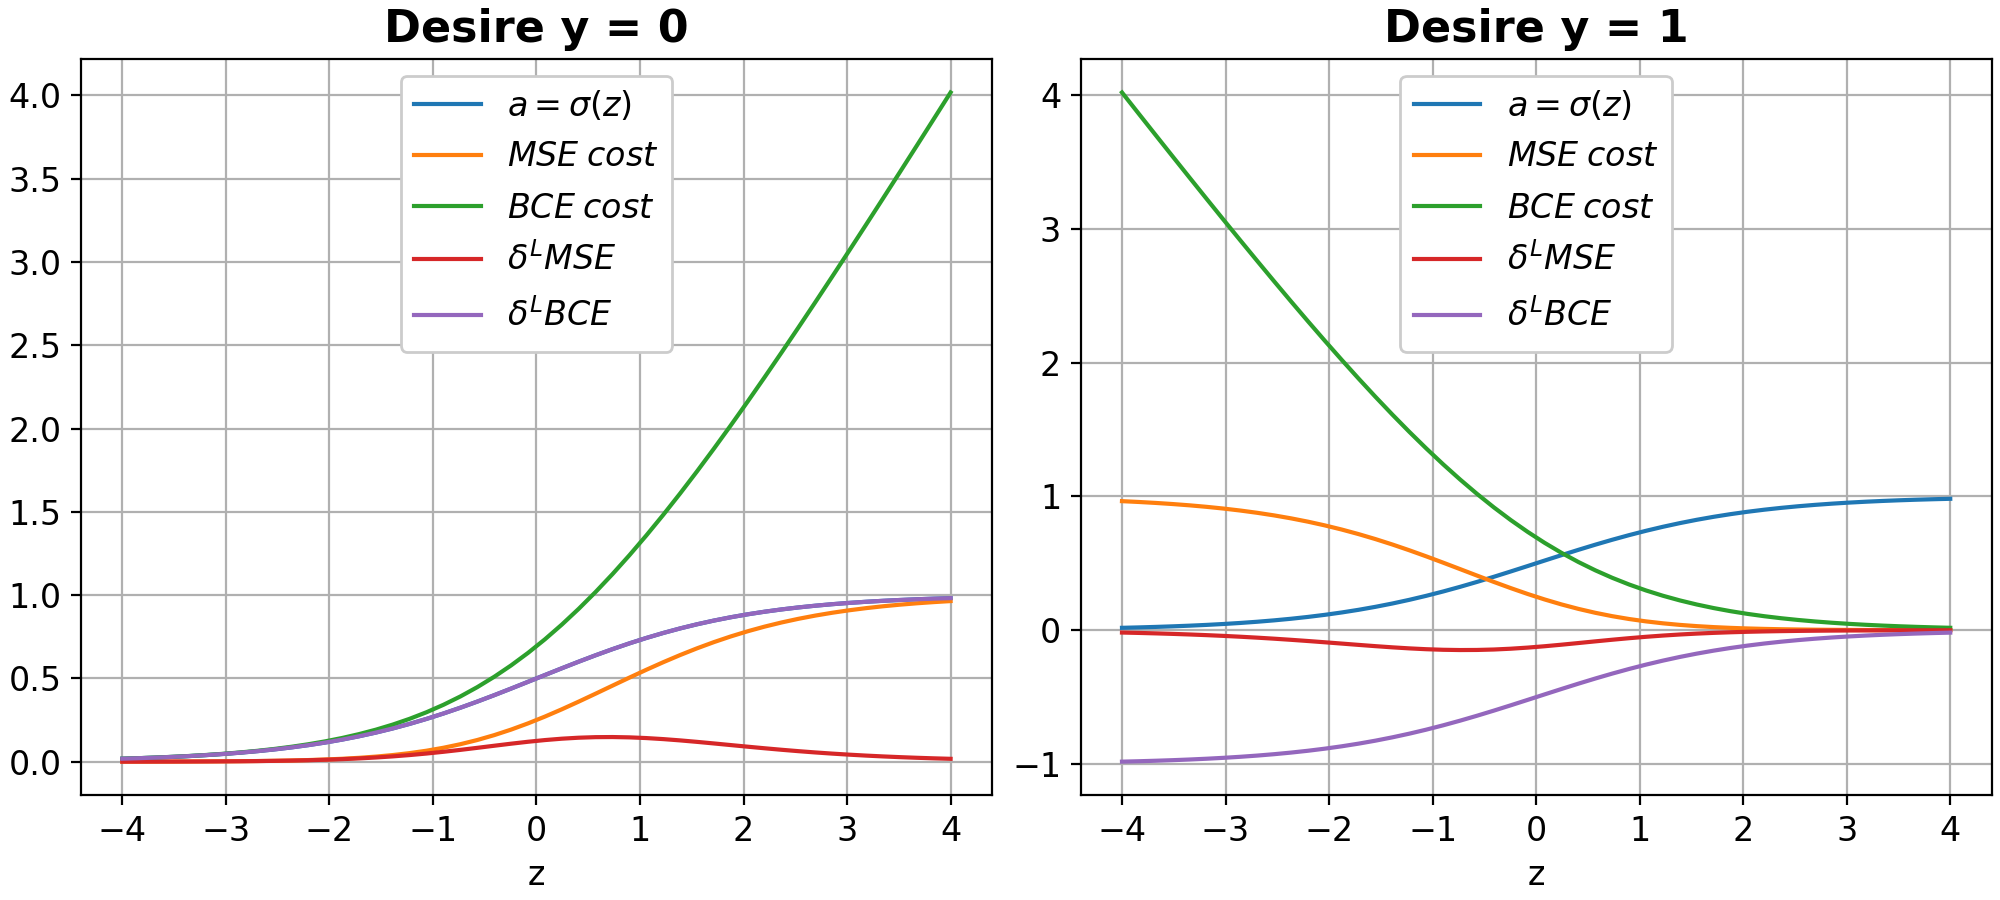
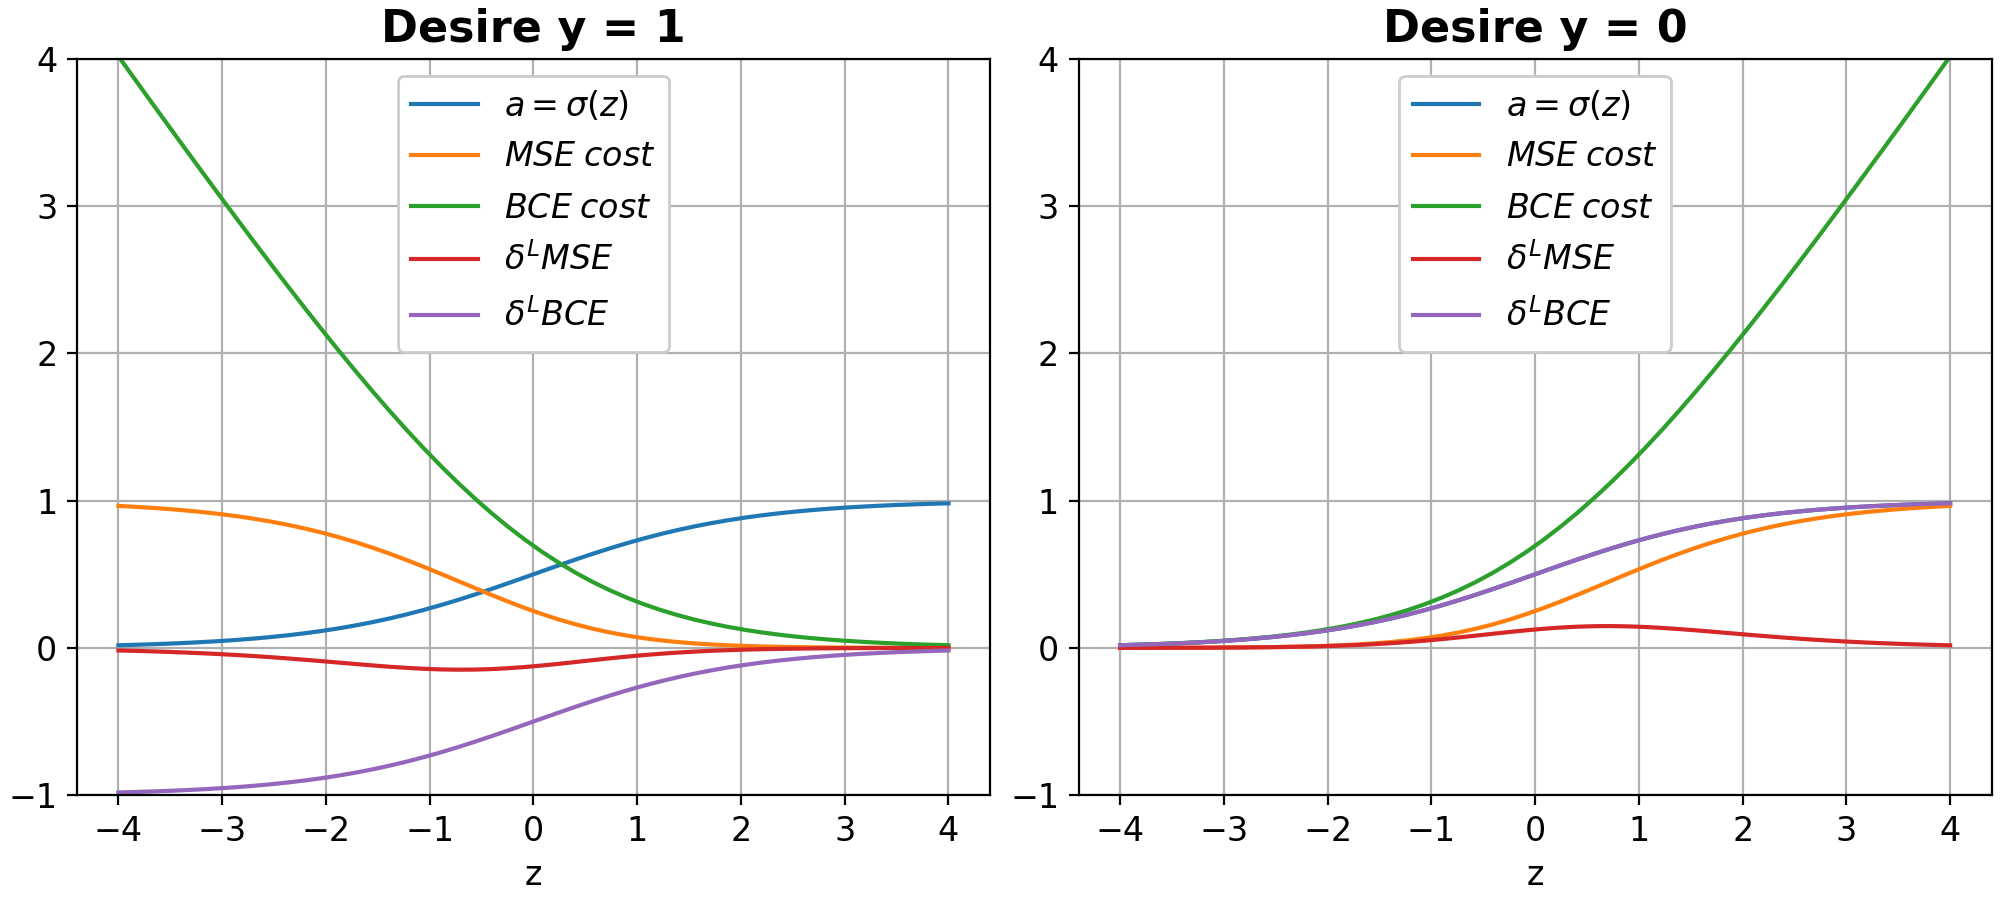
learnig algorithms

diff --git a/PythonScripts/Examples/learning_algorithms.py b/PythonScripts/Examples/learning_algorithms.py
@@ -1,0 +1,118 @@
+# -*- coding: utf-8 -*-
+"""
+Created on Mon Jan 15 14:06:42 2024
+
+@author: Genio
+"""
+import matplotlib.pyplot as plt
+import numpy as np
+
+plt.rc('axes' ,grid=True)
+plt.rc('axes', axisbelow=True)
+px2inch = 1/plt.rcParams['figure.dpi']
+
+def rand_grad(t=[0,90],m=[1,2],n=1):
+    
+    t   = np.array(t)*np.pi/180
+    m   = np.array(m)
+
+    theta = t[0] + (t[1]-t[0])*np.random.rand(n,1)
+    mag   = m[0] + (m[1]-m[0])*np.random.rand(n,1)
+
+    grad_v = mag*np.hstack([np.cos(theta),np.sin(theta)])
+    
+    return grad_v
+
+
+def plot_vec(pos,vec,ax,color='b',txt='',k=0.5):
+    
+    bbox=dict(boxstyle='round,pad=-0.05', fc='w', ec='none')
+    
+    ax.quiver(pos[0],pos[1],vec[0],vec[1],angles='xy',scale_units='xy',scale=1,color=color)
+    
+    if txt != '':
+        ax.text(pos[0]+vec[0]*k, pos[1]+vec[1]*k, txt, 
+                                                      backgroundcolor='w',
+                                                      fontsize=10,
+                                                      fontweight ='bold',
+                                                      ha='center',
+                                                      va='center',
+                                                      bbox=bbox)
+    
+    
+def plot_multi_vec(vec,ax,color='b',txt=''):
+    
+    pos  = np.vstack([np.zeros((1,2)),np.cumsum(vec,axis=0)])
+    x, y = pos[:,0][:-1], pos[:,1][0:-1]
+    u, v = vec[:,0]     , vec[:,1]
+    ax.quiver(x, y, u, v, angles='xy',scale_units='xy',scale=1,color=color)
+    
+    klim = 0.1
+    ax.set_xlim( np.min(x)-klim, np.max(x+u)+klim )
+    ax.set_ylim( np.min(y)-klim, np.max(y+v)+klim )
+    ax.set_aspect(1)
+    
+    return x,y,u,v
+
+def momentum_gradient_descent(ax,fi=0.25,mu=0.5,w = np.array([0,0])):
+  
+    # mu = gradient constant
+    # fi = momentum constant
+    
+    v   = np.array([0,0])
+    V,W = v,w
+    
+    for i,grad in enumerate(grad_v): 
+        
+        v = fi*v + mu*grad
+        w = w    + v
+    
+        V = np.vstack([V,v])
+        W = np.vstack([W,w])
+        
+        # plots
+        plot_vec(W[i]+mu*grad, fi*V[i], ax, color='g')
+        plot_vec(W[i]        , mu*grad, ax, color='b')
+        plot_vec(W[i]        , v      , ax, color='r',txt=f'w{i+1}')
+        
+     
+    ax.set_title(f'Momentum Gradient Descent \n $\eta:${mu}  $\gamma:${fi}  $w_0:${W[0]}')
+    
+    return W,V
+
+
+nplots  = 2
+height  = 500
+fig, ax = plt.subplots(1,nplots,figsize=(nplots*height*px2inch,height*px2inch),constrained_layout=True)
+
+
+grad_v = rand_grad(n=5,t=[5,85])
+grad_v = np.array([[2,0],
+                   [1,2],
+                   [0,2],
+                   [-1,2]])
+
+w0     = np.array([2,3])
+
+# subpltot 1
+#############
+W0,V0 = momentum_gradient_descent(ax[0],fi=0,mu=1,w=w0)
+
+# subpltot 2
+#############
+W1,V1 = momentum_gradient_descent(ax[1],fi=0.25,mu=0.5,w=w0)
+
+
+klim = 0.1
+W    = np.vstack([W0,W1])
+ax[0].set_xlim( np.min(W[:,0])-klim, np.max(W[:,0])+klim )
+ax[0].set_ylim( np.min(W[:,1])-klim, np.max(W[:,1])+klim )
+ax[1].set_xlim( np.min(W[:,0])-klim, np.max(W[:,0])+klim )
+ax[1].set_ylim( np.min(W[:,1])-klim, np.max(W[:,1])+klim )
+
+    
+plt.savefig('imgs/learning_algorithms.png',dpi=150)
+plt.show()
+
+
+

diff --git a/PythonScripts/Examples/DeltaErrorMseBce.py b/PythonScripts/Examples/DeltaErrorMseBce.py
@@ -52,23 +52,25 @@ fig, ax = plt.subplots(1,2, constrained_layout=True,figsize=(1000*px2inch , 450*
 z     = np.linspace(-4,4)
 a     = sigmoid(z)
 
-y     = 0
-mse   = quadratic_cost(sigmoid(z),y)
-bce   = cross_entropy( sigmoid(z),y)
-d_mse = delta_mse(z,a,y)
-d_bce = delta_bce(z,a,y)
-ax[y].plot(z,sigmoid(z),label='$a=\sigma(z)$');ax[y].plot(z,mse,label='$MSE _ cost$');ax[y].plot(z,bce,label='$BCE _ cost$')
-ax[y].plot(z,d_mse,label='$\delta^L MSE $'); ax[y].plot(z,d_bce,label='$\delta^L _ BCE$');
-ax[y].set_title(f'Desire y = {y}');ax[y].set_xlabel('z');ax[y].legend();
-
 y     = 1
 mse   = quadratic_cost(sigmoid(z),y)
 bce   = cross_entropy( sigmoid(z),y)
 d_mse = delta_mse(z,a,y)
 d_bce = delta_bce(z,a,y)
-ax[y].plot(z,sigmoid(z),label='$a=\sigma(z)$');ax[y].plot(z,mse,label='$MSE _ cost$');ax[y].plot(z,bce,label='$BCE _ cost$')
-ax[y].plot(z,d_mse,label='$\delta^L MSE $'); ax[y].plot(z,d_bce,label='$\delta^L _ BCE$');
-ax[y].set_title(f'Desire y = {y}');ax[y].set_xlabel('z');ax[y].legend();
+ax[0].plot(z,sigmoid(z),label='$a=\sigma(z)$');ax[0].plot(z,mse,label='$MSE _ cost$');ax[0].plot(z,bce,label='$BCE _ cost$')
+ax[0].plot(z,d_mse,label='$\delta^L MSE $');   ax[0].plot(z,d_bce,label='$\delta^L _ BCE$');
+ax[0].set_title(f'Desire y = {y}');            ax[0].set_xlabel('z');ax[0].legend();
+ax[0].set_ylim(-1,4)
+
+y     = 0
+mse   = quadratic_cost(sigmoid(z),y)
+bce   = cross_entropy( sigmoid(z),y)
+d_mse = delta_mse(z,a,y)
+d_bce = delta_bce(z,a,y)
+ax[1].plot(z,sigmoid(z),label='$a=\sigma(z)$'); ax[1].plot(z,mse,label='$MSE _ cost$');ax[1].plot(z,bce,label='$BCE _ cost$')
+ax[1].plot(z,d_mse,label='$\delta^L MSE $');    ax[1].plot(z,d_bce,label='$\delta^L _ BCE$');
+ax[1].set_title(f'Desire y = {y}');             ax[1].set_xlabel('z');ax[1].legend();
+ax[1].set_ylim(-1,4)
 
 fig.savefig('imgs/DeltaError.png', dpi=200)
 

diff --git a/PythonScripts/Examples/load_net1.py b/PythonScripts/Examples/load_net1.py
@@ -21,8 +21,9 @@ net           = network2.load('net_save.json')
 # %%
   
 BCE_cost = lambda a,y: -y*np.log(a)-(1-y)*np.log(1-a)
+
+
 n        = np.random.randint(len(training_data))
-#n        = 29504
 x,y      = training_data[n]
 
 noise    = 0.0
@@ -30,6 +31,11 @@ x        = x+noise*np.random.randn(28*28,1)
 #x        = np.where(x<0.5,0,1)
 a        = net.feedforward(x)
 cost     = BCE_cost(a,y)
+
+predict_digit = np.argmax(a)
+true_digit    = np.argmax(y)
+    
+
 
 print('y',end='\n')
 print(y,end='\n\n')
@@ -40,16 +46,12 @@ print(a,end='\n\n')
 print('cost',end='\n')
 print(cost,end='\n\n')
 
-
-
 size    = 500
 nplots  = 3
 px2inch = 1/plt.rcParams['figure.dpi']
 fig, ax = plt.subplots(1,nplots,figsize=(size*nplots*px2inch,size*px2inch),constrained_layout=True)
 digits  = np.arange(10)
 
-predict_digit = np.argmax(a)
-true_digit    = np.argmax(y)
 
 legend_loc = 0
 bar_color  = 'tab:blue'
@@ -66,7 +68,7 @@ ax_left1 = ax[0].twinx()
 ax_left1.plot(digits,cost,plot_color,marker='o',mfc='tab:green',mec='k')
 ax[0].tick_params(axis='y', labelcolor=bar_color)
 ax_left1.tick_params(axis='y', labelcolor=plot_color)
-
+ax_left1.set_ylim(0,0.2)
 
 ax[1].bar(digits,a.flatten(),log=True,color=bar_color,label='Activations')
 ax[1].plot(np.nan,np.nan,plot_color,label='Cost',marker='o',mfc='tab:green',mec='k')
@@ -78,6 +80,7 @@ ax_left2 = ax[1].twinx()
 ax_left2.semilogy(digits,cost,plot_color,marker='o',mfc='tab:green',mec='k')
 ax[1].tick_params(axis='y', labelcolor=bar_color)
 ax_left2.tick_params(axis='y', labelcolor=plot_color)
+ax_left2.set_ylim(0,0.2)
 
 ax[2].imshow( x.reshape((28,28)) )
 ax[2].set_xticks([])

diff --git a/PythonScripts/Examples/Weight_Initialization.py b/PythonScripts/Examples/Weight_Initialization.py
@@ -112,10 +112,10 @@ def get_gauss_curve(u=0,s=1,ns=4):
 
     return x_pdf,y_pdf
 
-fig2, ax2 = plt.subplots(1,1,constrained_layout=True,figsize=((900*px2inch,600*px2inch)));
+fig2, ax2 = plt.subplots(1,1,constrained_layout=True,figsize=((800*px2inch,600*px2inch)));
 u = 0
-t = ['weights randn/sqrt(n) ',
-     'weights randn             ']
+t = ['weights randn/sqrt(n)\n',
+     'weights randn\n']
 
                                     #[1.22,np.sqrt(51)]
 for i,(s ,ns, ti) in enumerate( zip([2,81],[12,3],t) ):
@@ -128,6 +128,6 @@ ax2.legend(loc='upper right')
 ax2.set_xlabel('$z = \sum w_j x_j + b$')
 ax2.set_title('Gaussian Random WeightSum Z Distribution' )
 
-#fig2.savefig('imgs/weight_distribution.png', dpi=150)
+fig2.savefig('imgs/weight_distribution.png', dpi=150)
 
 plt.show()

diff --git a/PythonScripts/networkG2.py b/PythonScripts/networkG2.py
@@ -190,8 +190,7 @@ class Network(object):
                     #print("Early-stopping: No accuracy change in last epochs: {}".format(early_stopping_n))
                     return evaluation_cost, evaluation_accuracy, training_cost, training_accuracy
 
-        return evaluation_cost, evaluation_accuracy, \
-               training_cost, training_accuracy
+        return evaluation_cost, evaluation_accuracy, training_cost, training_accuracy
 
     def update_mini_batch(self, mini_batch, eta, lmbda, n):
         """Update the network's weights and biases by applying gradient

diff --git a/README.md b/README.md
@@ -161,6 +161,7 @@ $$
 $$
 
 <img src="PythonScripts/Examples/imgs/b_c_e.png"  width="100%">
+<img src="PythonScripts/Examples/imgs/b_c_e2.png"  width="100%">
 
 ## Softmax
 
@@ -280,6 +281,13 @@ weights = [np.random.randn(r,c)/np.sqrt(c) for r,c in zip(rows,cols)]
 ### Normalized
 <img src="PythonScripts/Examples/imgs/weights_randn_normalize.png"  width="100%">
 
+## Choose a neural network's hyper-parameters
+
+- Reduce the number of classes and the test data
+- Decreasing training cost $\eta$: 0.1, 1.0, 2.5, 5
+- Validation accuracy: $\lambda$, $m$, $Nº$ $HiddenNeurons$
+- Early stopping to determine the number of training epochs: (Compute the classification accuracy on the validation data at the end of each epoch). Terminate training if the best classification accuracy doesn't improve for quite some nº of epochs
+
 ## Recognize handwritten digits from  MNIST dataset
 
 ### Parts of the data set
@@ -337,6 +345,14 @@ a    = net.feedforward(x)
 <img src="PythonScripts/Examples/imgs_output_net/img1.png"  width="100%">
 <img src="PythonScripts/Examples/imgs_output_net/img2.png"  width="100%">
 <img src="PythonScripts/Examples/imgs_output_net/img3.png"  width="100%">
+
+<!-- $$
+\begin{align}
+ v & \leftarrow \alpha v + \eta \nabla_w C \\
+                                          \\
+w & \leftarrow w + v
+\end{align}
+$$ -->
 
 
 ## *References*
